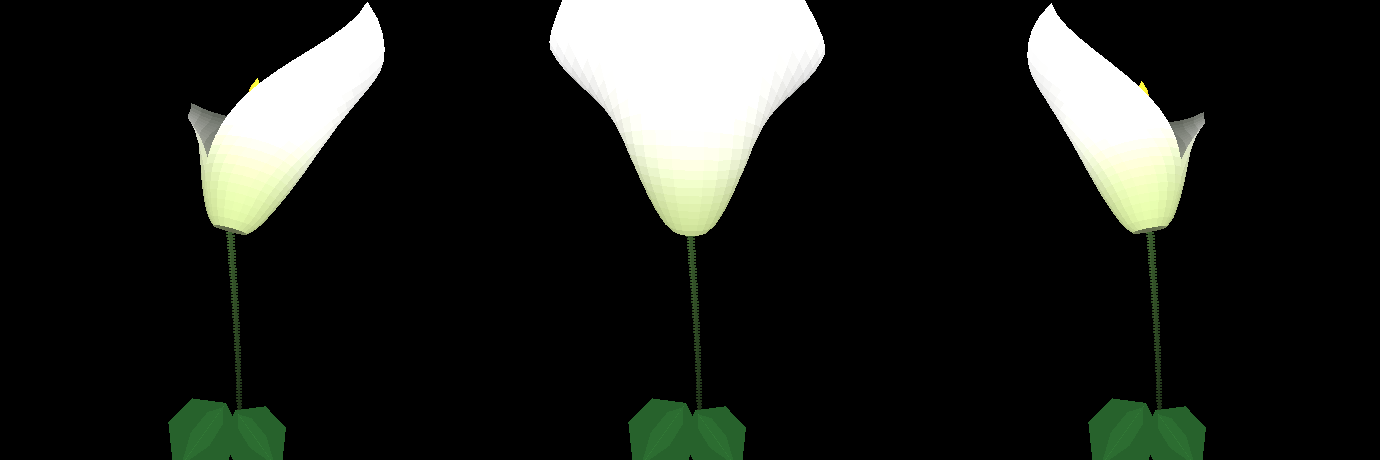
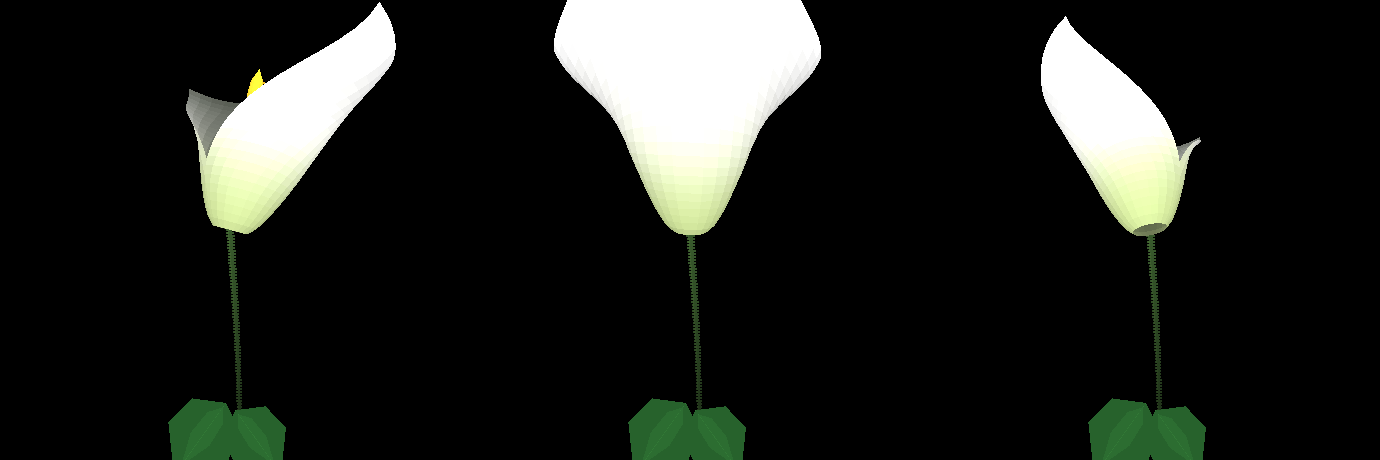
chore:add lily rotation

diff --git a/scenes/calla.js b/scenes/calla.js
@@ -193,8 +193,11 @@
     /* 3. FLOWER HEAD — rotating 3-D spathe + spadix ------------------------ */
     var open  = 1.0;                                // always fully bloomed
     var rotY  = u * TWO_PI;                         // one turn per loop
-    var rotX  = Math.sin(t * 0.45) * 0.06;          // ambient wobble
-    var rotZ  = Math.sin(t * 0.32 + 1.2) * 0.04;
+    // POV bobs once up + once down per rotation (loops clean at u=0,1).
+    // Pairs with Y so each side-on view is seen from a different elevation,
+    // selling depth and a sense of scale instead of a flat spin.
+    var rotX  = Math.sin(u * TWO_PI) * 0.20;
+    var rotZ  = Math.sin(t * 0.32 + 1.2) * 0.04;    // tiny ambient roll
     var focal = 440;
 
     function project(P) {
